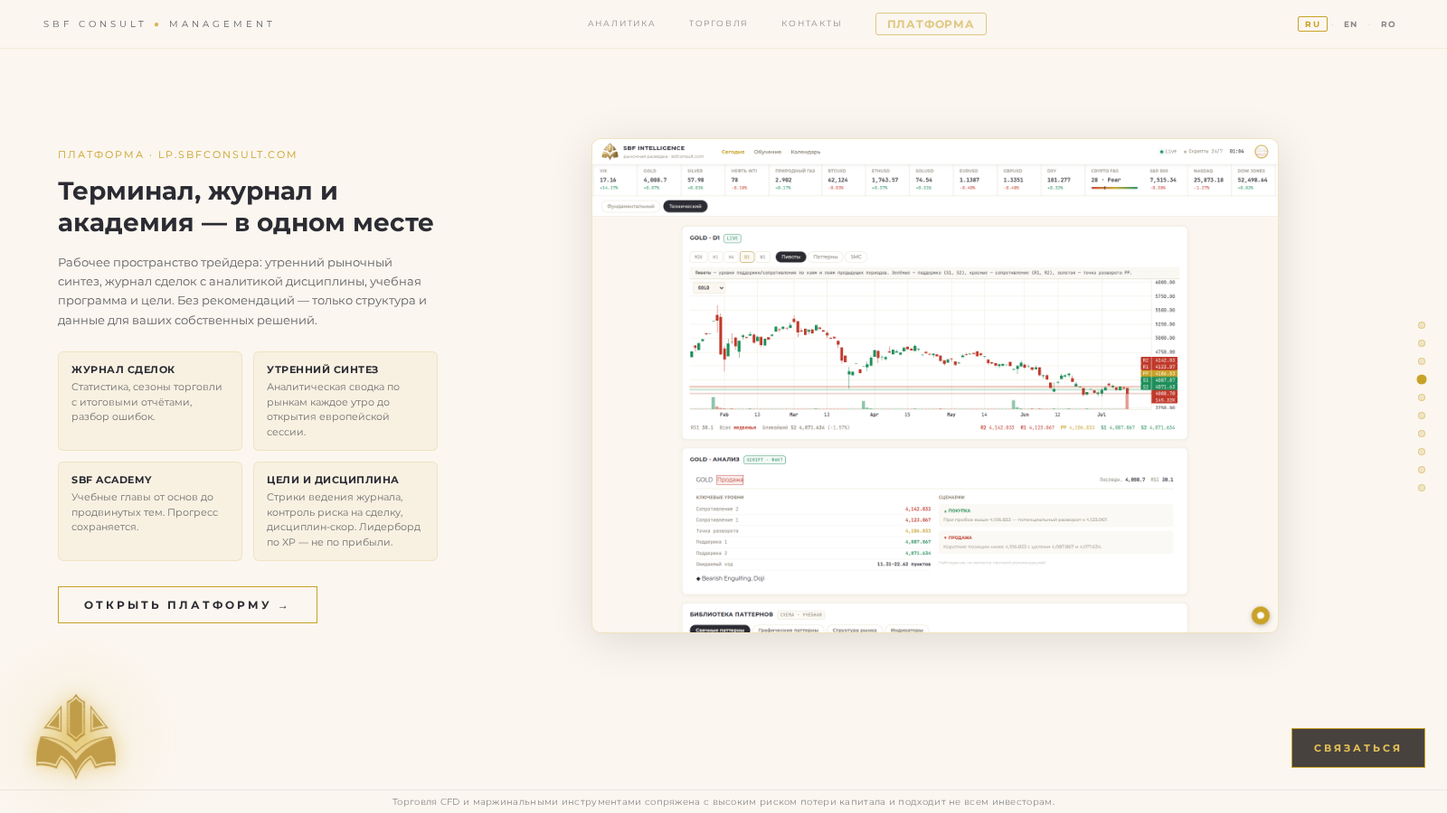
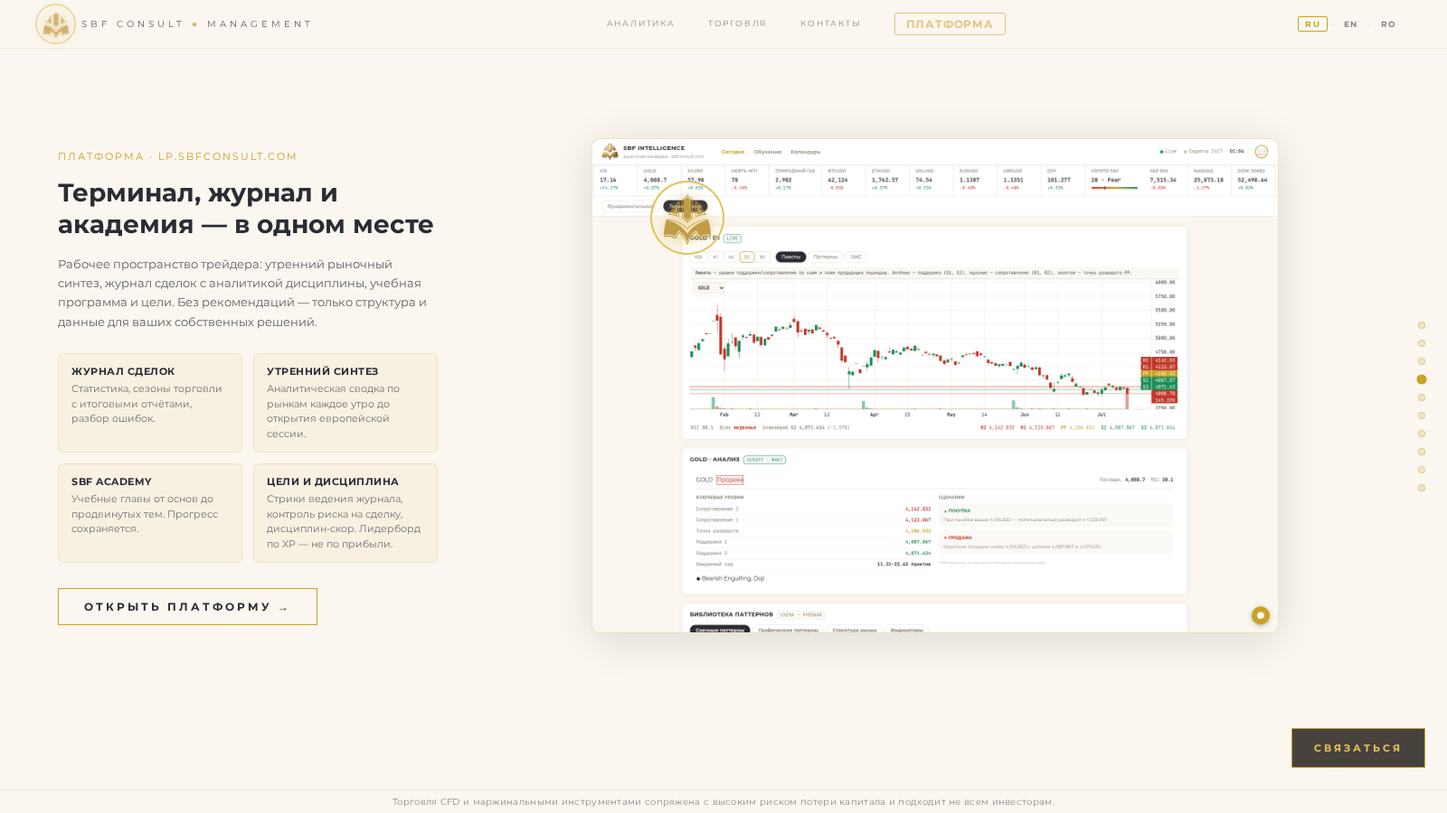
docs: план проработки экранов (ТЗ для исполнителя) + свежие снимки desktop

diff --git a/docs/plan-2026-09-screens.md b/docs/plan-2026-09-screens.md
@@ -1,0 +1,245 @@
+# sbfconsult.com — проработка экранов: план для исполнителя
+
+Дата: 2026-09-07. Ветка `scroll-mode` (от `main` f3dae56, последний коммит 67eca9f).
+Заказчик: «многое выглядит как плейсхолдеры на скорую руку — проработать все экраны отдельно, начиная с первого».
+
+Документ — техзадание. Исполнитель идёт по экранам сверху вниз, один экран = один коммит, после каждого — проверка (§0.4). Вопросы к заказчику собраны в §12; экраны, которые от них зависят, помечены.
+
+---
+
+## 0. Рамки
+
+### 0.1 Что уже решено и не пересматривается
+- Обычная прокрутка (не поэкранная). `js/scroll-director.js` шлёт `snap-enter/leave` на секции и `sbf:section` на document.
+- Знак SBF — процессор с одной ролью на экран (принимает / обрабатывает / выдаёт). Всё поведение знака — **только** в `js/logo.js` (`SBF.logo.setState(mark,{role,part,pulse})`). Секции знак не трогают, а шлют события. Знаки лежат в потоке (`.sect-mark`), общего fixed-логотипа нет и не будет. В шапке — `#nav-mark`, индикатор.
+- Подпись знака стоит под кольцом: `top: calc(100% + 0.34*var(--mark-size) + 8px)`.
+- Три языка (`js/i18n.js`, `_LOCALES` ru/en/ro). Любой новый текст — сразу в три локали; ключи только через `data-i18n`.
+- Вендор-библиотеки только из `vendor/` (d3, topojson, three, gsap). Новых CDN не добавлять.
+- Compliance: никаких обещаний доходности, никаких цитат «Reuters/Bloomberg», везде «не является инвестиционной рекомендацией», партнёры — с указанием регулятора. HTML-фолбэк без JS — нейтральный.
+
+### 0.2 Источники настоящего контента (вместо выдуманного)
+Всё лежит на диске в `/mnt/sbfdata/sbf-platform/market_intel/web/data/` и отдаётся сайтом lp.sbfconsult.com как `./data/*.json` (проверить доступность `https://lp.sbfconsult.com/data/brief_today.json` и CORS; если CORS нет — копировать нужные срезы кроном в `sbf-nexus/data/*.json`, как уже делается для `hero-feed.json` через `hero-preview/build_feed.py`).
+
+| Файл | Что внутри | Для какого экрана |
+|---|---|---|
+| `brief_today.json` | `headline` (строка, RU), `calendar[]` (`country`, `title`, `impact`, `forecast/previous`, `symbols[]`, `ts_utc`, `past_reaction{symbol,n,median_atr_30m}`), `movers{up[],down[]}` (`symbol`, `chg_pct`, `close`, `event`), `patterns[]` (`symbol`, `tf`, `pattern_key`, `display_name_ru`, `direction`, `agree_share_5`), `outliers`, `generated_at`, `untranslated` | герой, «Что выходит из шума», подход |
+| `broker_quotes.json`, `broker_sparklines.json` | котировки и спарклайны по инструментам, `updated` | бегущая строка героя, карточка «Анализ актива» |
+| `brief_image_<дата>.png` | готовая картинка утреннего брифа | платформа (демо брифа), «Утренний бриф» |
+| `guides/{avatrade,xm,naga,instaforex,fxpro}.{,en,ro}.json` | описание партнёра: `lead`, `processes`, `account_kind`, `affiliate` — в трёх языках | услуги, partner-modal |
+| `earnings_calendar.json`, `buzz.json` | отчётности, обсуждаемые тикеры | герой (подписи «N упоминаний») |
+| `sbf-nexus/assets/data/*.csv` | 9 исторических кейсов OHLC | память рынков, линза подхода |
+| `sbf-nexus/assets/platform/terminal.png`, `assets/office/*.jpg` | скриншот терминала, фото офиса | платформа, контакты |
+
+Правило: если на экране число или факт — он должен приходить из этих файлов или быть подтверждён заказчиком (§12). Без источника — не писать.
+
+### 0.3 Ключевые файлы
+`index.html` (917 строк, все секции) · `css/styles.css` (3556) · `css/scroll-mode.css` (474, всё новое кладём сюда) · `css/mobile-fixes.css` · `css/hero-map.css` · `js/hero-map.js` (герой) · `js/acts/act-hub.js` (grow) · `js/acts/act-approach.js` (GoldTape + линза) · `js/acts/act-pro.js` · `js/acts/act3-market.js` + `act-market-memory.js` · `js/acts/act-services.js` · `js/acts/act5-contact.js` · `js/partner-modal.js` · `js/lead-modal.js` · `js/i18n.js` · `hero-preview/build_feed.py`.
+
+### 0.4 Проверка после каждого экрана
+```
+python3 tools/shots.py --device laptop --device laptop-low --device iphone --section <id>
+python3 tools/lang-check.py --device laptop --device iphone      # RU/EN/RO, перекрытия знака
+node --check <изменённые js>
+```
+Перед закрытием всего плана: `python3 tools/shots.py` (6 пресетов) + `lang-check.py` без `--device`. Смотреть снимки глазами, не только отчёт: `tools/shots/<device>/NN-<id>.png`. Бэкграунд-запуск: `(setsid nohup timeout 600 python3 tools/shots.py > tools/shots.log 2>&1 &)`.
+Прод не меняется до `git merge` в `main` и `sudo systemctl restart sbfconsult-web.service` (делает заказчик).
+
+### 0.5 Общие признаки «плейсхолдера», которые убираем везде
+1. Текст, который подходит любой компании («индивидуальные решения для вашего будущего»). Заменяется на конкретику: что именно, когда, сколько, откуда.
+2. Карточка = заголовок + одна фраза, без визуального доказательства. Каждой карточке — «улика»: число из данных, мини-график, фрагмент интерфейса, шаг процесса.
+3. Пустота: экран на 70 % пуст (услуги). Либо наполняем содержанием, либо уменьшаем высоту секции.
+4. Декоративный элемент без функции (тире над цифрами PRO, плавающие подписи на карте без времени/источника).
+5. Отсутствие «низа»: у сайта нет футера с реквизитами, политиками и соцсетями.
+
+---
+
+## 1. Герой — `#act-map` (карта)
+
+**Сейчас.** Карта с 3 плавающими подписями («Процентная ставка · США», «MSTR · 6 упоминаний», «Закладки новых домов · Япония») без времени, источника и смысла числа; нити почти невидимы; ядро-знак в Молдове 40px и не читается как центр; заголовок хорош; карточка «Опрос трейдера — 30 дней PRO» нормальна; бегущая строка — только календарь; строка доверия внизу — не кликабельна; лента обновляется вручную (крон не стоит).
+
+**Цель.** Первый экран должен сам доказывать тезис «мир генерирует шум — мы распознаём закономерности»: видно, что шум настоящий (события с временем и источником), и видно, что из него уже что-то извлечено (сегодняшний заголовок брифа, ожидаемая реакция).
+
+**Сделать.**
+1. **Подписи на карте → мини-карточки события.** Разметка `.hm-label` → `.hm-event`: строка 1 — событие (title в текущем языке), строка 2 — страна · время («сегодня 15:30» / «через 2 ч» — из `calendar[].ts_utc`, локальное время посетителя), строка 3 — «обычно ±0.08 % за 30 мин по GBPUSD» из `past_reaction` (`median_atr_30m`, `symbol`, только если `n ≥ 5`). Impact — цветной маркер (low/medium/high). Не больше 4 карточек одновременно, новые вытесняют старые с фейдом. Источник — `build_feed.py` (расширить схему `hero-feed.json`: добавить `ts_utc`, `impact`, `reaction`, `symbols`; поле `generated_at`).
+2. **Нити.** Контраст ×2 (сейчас `rgba(154,123,30,.8)` с быстрым затуханием — сделать затухание к хвосту не ниже 0.35), толщина у ядра 3→4 px. Вспышка ядра при приходе нити уже шлёт `sbf:thread` — шапка реагирует; ядро тоже должно (кольцо-импульс на 400 мс).
+3. **Ядро.** Знак в Молдове 40→56 px с кольцом-дорожкой; подпись «SBF · Chișinău» под ним 9px mono; кольцо заполняется на 1/N с каждой пришедшей нитью и обнуляется при полном (ритм «набрали пакет — обработали»). Реализовать через `SBF.logo.setState` на `.sect-mark` героя (сейчас ядро рисуется на canvas в `hero-map.js` — заменить на DOM-знак, позиционируемый по `publishCore()`; canvas оставить только для нитей).
+4. **Строка «сегодня».** Под подзаголовком: `Сегодня · 7 сентября — <brief_today.headline>` мелким шрифтом, со ссылкой «читать бриф →» на lp (UTM `utm_campaign=hero_brief`). Если `untranslated` для текущего языка — показывать английский headline, не смешивать языки (это уже ловили в ленте).
+5. **Бегущая строка.** Две группы попеременно: календарь (как сейчас) и котировки из `broker_quotes.json` (`EURUSD 1.1642 ▲0.12 %`, 8–10 инструментов, цвет по знаку). Внизу строки — «обновлено N мин назад» из `updated`; старше 2 ч — котировки не показывать (нет данных лучше, чем старые данные).
+6. **Строка доверия.** «Bloomberg LEI» → ссылка на LEI (уже есть на контактах); «Партнёры с лицензиями ЕС» → якорь на `#act-service-1`; «Эксперты с опытом 10–25 лет» → оставить только если заказчик подтвердит (§12.5), иначе снять.
+7. **Крон.** `*/15 * * * * python3 /mnt/sbfdata/sbf-nexus/hero-preview/build_feed.py` — записать в карту юнитов (`units.txt` — источник правды по [[sbf-units-txt-is-the-source-of-truth]]), не ставить руками мимо карты.
+8. **Мобайл.** Карта — фон с приглушением 0.35, карточки событий не показывать (только строка «сегодня» и одна карточка ближайшего события над CTA). LCP: `d3`+`topojson` грузить `defer` и только `≥ 768px`.
+
+**Файлы.** `index.html` (секция `#act-map`), `js/hero-map.js`, `css/hero-map.css`, `hero-preview/build_feed.py`, `js/i18n.js` (`hero.today`, `hero.read_brief`, `hero.reaction_fmt`, `ticker.updated`).
+**Готово, когда:** на карте 3–4 карточки с временем и ожидаемой реакцией, ядро с кольцом, строка «сегодня» с реальным заголовком, котировки в бегущей строке, `generated_at` не старше 15 мин после установки крона; shots/lang-check чисто.
+
+---
+
+## 2. «Что выходит из шума» — `#act-grow`
+
+**Сейчас.** 4 текстовые карточки без доказательств; нити от знака к карточкам едва видны; полоса «Терминал открыт весь. Аккаунт добавляет своё» — один абзац.
+
+**Цель.** Показать продукт, а не описать его: каждая карточка содержит живой фрагмент того, что платформа выдаёт сегодня.
+
+**Сделать.**
+1. **Утренний бриф** — заголовок дня (`brief_today.headline`), дата, 3 ближайших события календаря одной строкой каждое (время · страна · событие). Ссылка «открыть бриф →» на lp. Снизу мелко: «формируется в 06:00 CET автоматически».
+2. **Анализ актива** — спарклайн (SVG 160×40) самого сильного mover'а из `movers` по `broker_sparklines.json`, подпись `XAUUSD · +1.4 % за день · уровень 4 440`. Клик → lp `chart.html?s=<symbol>` (в URL символы без `#`, см. [[chart-hash-symbols-broke-urls]]).
+3. **Библиотека паттернов** — чип статистики из наших кейсов: «Gap & fill · закрыт в 75 % случаев за 1–2 нед.» (число уже есть в i18n `market.eurusd.note`; хранить в одном месте — вынести в `js/data/patterns.json` и читать оттуда и здесь, и на экране рынков). Плюс миниатюра паттерна 120×60 (нарисовать canvas из CSV, как `drawStatic` в `act3-market.js`).
+4. **Журнал сделок** — «строка журнала» как в интерфейсе: `дата · инструмент · направление · риск 0.5 % · результат +1.8 R` с пометкой «пример записи». Никаких реальных результатов клиентов.
+5. **Нити** — по ним идут «пакеты» (точки 3px) от знака к карточкам с интервалом ~1.2 с (роль «выдаёт» становится видимой). Реализация в `act-hub.js` поверх существующих `.thread-line` (SVG `<circle>` + `animateMotion` по тому же пути, либо rAF).
+6. **Полоса внизу → таблица доступа.** Три колонки: «Без аккаунта» / «С аккаунтом» / «PRO» и 5–6 строк (бриф, графики, журнал, библиотека, академия, сигналы) с ✓ / — . Содержимое строк — из lp (§12.2, подтвердить у заказчика, что именно закрыто под PRO). Это мост к экрану 5.
+7. **Мобайл.** Карточки в потоке (уже), спарклайн и чипы масштабируются; таблица доступа — 3 колонки узкие, шрифт 11px, горизонтальный скролл не допускать.
+
+**Файлы.** `index.html` (`#act-grow`), `js/acts/act-hub.js`, `css/act-hub.css`, `js/data/patterns.json` (новый), `js/i18n.js` (`grow.*`).
+**Готово, когда:** на каждой карточке живой элемент из данных, пакеты бегут по нитям, таблица доступа согласована с lp.
+
+---
+
+## 3. Подход — `#act-approach`
+
+**Сейчас.** Самый «шаблонный» текст на сайте: «Индивидуальные финансовые решения для вашего будущего» + два абзаца, подходящих любому банку. В абзаце — «криптовалют» (проверить с compliance). Линза стоит по центру ленты, что внутри неё — не объяснено, кроме подписи.
+
+**Цель.** Одна мысль в три шага: собираем → проверяем → выдаём, и каждый шаг с числом.
+
+**Сделать.**
+1. **Копирайт.** Eyebrow «Подход». H2 «Шум снаружи — закономерность внутри». Три шага (нумерованный список `01/02/03` вертикально слева):
+   - **Собираем** — «календарь, новости, котировки: N источников, обновление каждые 15 мин» (N — из `build_feed.py`/`market_intel` конфигурации, посчитать реальное число).
+   - **Проверяем** — «по каждому событию — как рынок реагировал в прошлые 7 раз» (`past_reaction.n`), «паттерны — с частотой срабатывания, а не с картинкой из учебника».
+   - **Выдаём** — «бриф до открытия Европы, разметка на графике, сигналы на платформе. Решение — за вами» (формулировка compliance).
+   Старые абзацы удалить в трёх локалях. Ключи `approach.step1..3.title/text`.
+2. **Линза с настоящим паттерном.** Лента GoldTape сейчас крутит CSV по кругу; линза фиксирована в центре. Сделать: лента едет, а при `mark:visible` останавливается так, чтобы в линзе оказалась «точка паттерна» из выбранного CSV (например `XAUUSD_triangle_breakout_may2026.csv`, свеча пробоя); в линзе — уровни, SMA20, подсветка свечи (уже есть в `_renderLens`). Под линзой — 3 чипа-легенды: «уровень», «SMA 20», «паттерн» с цветами, как в отрисовке. Hover/тач по ленте — линза едет за курсором (лента стоит), при уходе — возвращается к паттерну.
+3. **Ссылка** «Как это выглядит в терминале →» на lp `chart.html?s=XAUUSD` (UTM `approach`).
+4. **Мобайл.** Лента — фон 0.25 (как сейчас), линзы нет (роль — в шапке), шаги в потоке; убрать пустоту сверху (сейчас ~80px до eyebrow).
+
+**Файлы.** `index.html` (`#act-approach`), `js/acts/act-approach.js` (режим «стоп на паттерне», hover), `css/scroll-mode.css`, `js/i18n.js` (`approach.*`).
+**Готово, когда:** текст без общих фраз, три шага с числами, линза стоит на реальной свече пробоя с легендой.
+
+---
+
+## 4. Платформа — `#act-platform-1`
+
+**Сейчас.** Один статичный PNG терминала, «ключ»-знак проявляет его по кольцу (работает), 4 текстовые мини-карточки, один CTA.
+
+**Цель.** Дать потрогать продукт с сайта: три экрана платформы и настоящий бриф.
+
+**Сделать.**
+1. **Три вкладки над скриншотом:** Терминал / Журнал / Академия. Скриншоты снять Playwright'ом с lp (`chart.html`, `journal.html`, `/edu/`) на 1440×900, сохранить в `assets/platform/{terminal,journal,academy}.png` (webp + png fallback). Если страница требует логина — снимать публичный вид (§12.3). Рамка браузера (тонкая полоса с тремя точками и адресом `lp.sbfconsult.com/chart`) — CSS, без картинок. Механика «ключа» остаётся: первое проявление — на активной вкладке, дальнейшие переключения — без размытия.
+2. **Мини-карточки** → ссылки на соответствующий раздел lp с UTM, в каждой одно число: «Журнал — 7 полей на сделку», «Бриф — 06:00 CET, 4 блока», «Академия — N уроков» (посчитать по `sbf_site` / `market_intel/web`), «Цели и дисциплина — лимит риска на сделку».
+3. **Второй CTA:** «Посмотреть сегодняшний бриф» — лайтбокс с `brief_image_<сегодня>.png` (последний доступный файл; путь через lp `data/`). Это единственное место на сайте, где продукт показан целиком.
+4. **Мобайл.** Скриншот сверху, вкладки — сегменты 3 в ряд, лайтбокс — полноэкранный с закрытием по свайпу вниз.
+
+**Файлы.** `index.html` (`#act-platform-1`), `js/logo.js` (gate — без изменений), новый `js/acts/act-platform.js` (вкладки, лайтбокс), `css/scroll-mode.css`, `assets/platform/*`, `js/i18n.js` (`platform.p1.tab_*`, `platform.p1.brief_cta`).
+**Готово, когда:** три вкладки с настоящими скриншотами, лайтбокс открывает сегодняшний бриф, карточки ведут в разделы.
+
+---
+
+## 5. PRO-оффер — `#act-platform-2`
+
+**Сейчас.** Три тёмных прямоугольника с «—» над цифрами и одной фразой — типичный плейсхолдер; что даёт PRO — не сказано; что после 30 дней — не сказано. Кольцо по шагам работает.
+
+**Цель.** Понятный оффер: что получаешь, что нужно сделать, что будет потом.
+
+**Сделать.** *(зависит от §12.2 — состав PRO и цена после триала)*
+1. **Степпер вместо коробок.** Горизонтальная линия с тремя узлами: иконка (SVG inline, 24px: «регистрация», «опрос», «путь») → заголовок → длительность («2 шага», «~3 мин», «сразу»). Узлы подсвечиваются по мере заполнения кольца (уже есть `.step-lit`). Тире убрать.
+2. **Блок «Что входит в PRO»** — 4–6 строк с ✓ (из §12.2), рядом «30 дней бесплатно · карта не нужна · автосписаний нет».
+3. **Блок «Через 30 дней»** — честно: «PRO отключается сам, всё, что открыто без аккаунта, остаётся; продление — <цена> / мес» (цена — §12.2; пока нет — «по подписке, цена на платформе»).
+4. **CTA** «Начать →» — на lp `survey.html` с UTM `pro_offer`; рядом мелко «18+ · доступ активируется однократно».
+5. **Мобайл.** Степпер вертикальный, блоки в потоке; знак — между степпером и «что входит» (уже в потоке).
+
+**Файлы.** `index.html` (`#act-platform-2`), `js/acts/act-pro.js` (узлы вместо карточек — селекторы `.p2-card[data-step]` сохранить), `css/scroll-mode.css`, `js/i18n.js` (`platform.p2.*`).
+**Готово, когда:** ни одной пустой коробки, состав PRO и условия после триала на экране.
+
+---
+
+## 6. Память рынков — `#act-market`
+
+**Сейчас.** Работает лучше остальных: кейсы, поток в силуэте, кольцо-таймер, маркер. Плейсхолдерные черты: график без осей и дат, пунктирные уровни без легенды, титульная плашка — отдельная «стеклянная» коробка, дисклеймер только у первого кейса, у графиков нет источника данных.
+
+**Сделать.**
+1. **Оси.** Справа — 4–5 ценовых тиков, снизу — даты (начало/середина/конец окна) шрифтом mono 10px, цвет `rgba(251,246,239,.4)`. Реализовать в `drawStatic` (`act3-market.js`) и в мобильном `act-market-mobile.js` — общая функция `drawAxes(ctx, data, cfg)`.
+2. **Легенда паттерна** под графиком: «— — уровень гэпа», «▮ окно паттерна», «● точка паттерна» (маркер уже есть). Подсветка окна паттерна — полупрозрачная полоса по индексам из `cfg.overlay`.
+3. **Источник** под кейсом: «данные: MT5 · EURUSD 30M · 22–29 мая 2026» из `cfg` (добавить `source` в `CHARTS`).
+4. **Титул** — не плавающая коробка, а заголовок секции в верхней полосе слева (eyebrow + h3 без фона), CTA «Смотреть живую аналитику →» рядом со знаком справа.
+5. **Дисклеймер** `market.hist_disclaimer` на всех пяти кейсах.
+6. **Чип статистики** у каждого кейса (там, где есть число): «75 % · 1–2 нед.» — из `js/data/patterns.json` (общий с экраном 2).
+
+**Файлы.** `js/acts/act3-market.js`, `js/acts/act-market-mobile.js`, `index.html` (`#act-market`), `css/scroll-mode.css`, `js/i18n.js` (`market.legend_*`, `market.source`).
+**Готово, когда:** на графике оси и даты, легенда и источник под каждым кейсом, дисклеймер везде.
+
+---
+
+## 7–9. Услуги — `#act-service-1..3`
+
+**Сейчас.** Самые пустые экраны: номер, заголовок, «кому подходит» одной строкой, знак, 1–2 карточки партнёров, один абзац. 70 % площади пусто. Не сказано: что входит, в каком формате, сколько длится, с чего начать, сколько стоит.
+
+**Цель.** Каждая услуга — законченная страница-оффер на одном экране. *(зависит от §12.1 — формат, длительность, цены)*
+
+**Сделать (одинаковая структура для трёх, один коммит).**
+1. **Сетка** `.service-corona`: строка 1 — номер + заголовок (как сейчас); строка 2 — три колонки: слева «Кому подходит» + «Формат» (онлайн / офис Кишинёв · длительность · языки RU/RO/EN), центр — знак с кольцом «вы/мы» (как сейчас), справа — партнёры; строка 3 — две колонки: «Что входит» (4 пункта с ✓) и «Как начать» (3 шага: заявка → созвон 20 мин → старт); строка 4 — абзац-описание + дисклеймер (03) + CTA.
+2. **CTA по услуге:** 01 → lp `/edu/` (есть); 02 → «Обсудить сопровождение» (lead-modal с предвыбором `service=support` — добавить скрытое поле в `lead-modal.js`, оно уходит в CRM); 03 → «Обсудить управление» (lead-modal `service=management`) + знак-кнопка к FxPro (есть).
+3. **Партнёры.** Карточки и модалка — из `guides/*.{ru,en,ro}.json` (`lead`, `processes`, регулятор): заменить захардкоженный текст в `partner-modal.js` на загрузку JSON по текущему языку (файлы скопировать в `sbf-nexus/data/guides/` тем же кроном). Для каждого партнёра — строка регулятора и «счёт открывается у партнёра, SBF средства не принимает».
+4. **Цена.** Если заказчик даёт — «от X €/мес» / «% от прибыли по договору с брокером»; если нет — «условия — на консультации» (не оставлять пустым).
+5. **Мобайл.** `.service-corona-mobile` — те же блоки в потоке: заголовок → знак → кому/формат → что входит → как начать → партнёры → CTA. Убрать дубли текста между десктоп- и мобильной разметкой: перейти на одну разметку с CSS-раскладкой (сейчас каждая услуга существует дважды — источник расхождений и лишних i18n-ключей).
+
+**Файлы.** `index.html` (три секции — переписать по одной структуре), `css/styles.css` (`.service-corona*` — большие блоки; новое класть в `scroll-mode.css`), `js/acts/act-services.js`, `js/partner-modal.js`, `js/lead-modal.js`, `js/i18n.js` (`svc.s{1,2,3}.{format,includes[],steps[],price,cta}`).
+**Готово, когда:** на каждой услуге видно формат, состав, шаги и CTA; партнёры из guides в трёх языках; одна разметка на десктоп и мобайл.
+
+---
+
+## 10. Контакты + футер — `#act-contact`
+
+**Сейчас.** Глобус, 4 филиала, карточка контактов, знак-узел с нитями. Нет: часов работы и часовых поясов, реквизитов компании, политик, соцсетей — сайт обрывается на строке риска.
+
+**Сделать.**
+1. **Филиалы:** добавить «часы: 09–18 EET · сейчас 14:32» (локальное время офиса JS, `Intl.DateTimeFormat` с timeZone), предпочтительный канал (WhatsApp/Telegram — уже есть). При наведении на карточку — глобус доворачивается к офису (проверить, есть ли в `globe3d.js` API поворота; если нет — добавить `SBF.globe.lookAt(lat, lon)` с плавным твином), точка офиса подсвечивается.
+2. **Карточка контактов:** «Ответим в течение рабочего дня» под CTA; e-mail/телефон — как есть.
+3. **Футер** (новая секция `<footer class="site-footer">` после `#act-contact`, не `.snap-stop`): колонка 1 — реквизиты (SBF Company SRL, IDNO — §12.4, адрес Кишинёв, LEI-ссылка); колонка 2 — ссылки: Политика конфиденциальности (есть на lp `privacy.html` — сослаться или перенести), Условия, Риск-предупреждение (полный текст на отдельной странице `risk.html`), Партнёры; колонка 3 — соцсети (Telegram @SBFEconomics — есть; остальное §12.6), переключатель языка, © 2026. Текст риска из шапки-подвала остаётся, но в футере — полная версия.
+4. **Мобайл.** Часы/время в карточках — одной строкой; футер в одну колонку.
+
+**Файлы.** `index.html`, `js/acts/act5-contact.js`, `js/globe3d.js`, `css/scroll-mode.css`, новая `risk.html` (и `privacy.html`, если переносим), `js/i18n.js` (`contact.hours`, `footer.*`).
+**Готово, когда:** у каждого офиса часы и локальное время, есть футер с реквизитами и политиками на трёх языках.
+
+---
+
+## 11. Сквозные вещи (после экранов, один коммит на пункт)
+
+1. **Голос и compliance** — прогнать все тексты через `marketing:brand-review` (скилл в Cowork) по двум критериям: нет общих фраз, нет обещаний доходности. Исправить в трёх локалях.
+2. **Паритет i18n** — `tools/i18n-check.py`: ключи, которых нет в одной из локалей, и ключи, которых нет в разметке. Запускать в §0.4.
+3. **Производительность** — `three.min.js` (глобус) грузить лениво при приближении к `#act-contact` (IntersectionObserver rootMargin 800px); d3/topojson — только ≥768px; изображения → webp с fallback; проверить LCP на iphone в Playwright (`performance.getEntriesByType('largest-contentful-paint')`) — цель < 2.5 с на 4G-троттлинге.
+4. **SEO/OG** — `<title>`/`<meta description>` по языку (менять в `applyTranslations`), `og:image` 1200×630 (сделать из героя), JSON-LD `Organization` с `leiCode`, `sitemap.xml`, `hreflang` (если языки — не URL, то один URL с `?lang=`; решить с заказчиком — §12.7).
+5. **Аналитика** — сейчас ни `gtag`, ни `plausible` в `index.html` нет; UTM на ссылках есть. Добавить события на CTA (`data-track="hero_platform"` и т.п.) под тот счётчик, который назовёт заказчик (§12.8). Без счётчика клики с сайта не видны нигде, кроме CRM-лидов.
+6. **Доступность** — фокус-стили на `.sect-mark[data-open-partner]`, `aria-live` на бегущей строке выключить (шумит для скринридеров), `prefers-reduced-motion` — потоки/пакеты/нити не анимировать.
+
+---
+
+## 12. Вопросы заказчику (блокируют помеченные экраны)
+
+1. **Услуги (7–9):** формат (онлайн/офис), длительность обучения, языки, цены или «на консультации»; что входит в сопровождение и управление — по 4 пункта на услугу.
+2. **PRO (5, 2):** точный состав PRO на lp; цена после 30 дней; что закрыто без аккаунта / с аккаунтом / в PRO (таблица доступа).
+3. **Платформа (4):** можно ли снимать скриншоты `journal.html` и академии с демо-аккаунтом, или только публичные виды.
+4. **Футер (10):** IDNO, юридический адрес, кто оператор персональных данных.
+5. **Герой (1):** подтвердить «эксперты с опытом 10–25 лет» — или снять.
+6. **Футер (10):** ссылки на соцсети (Telegram есть; YouTube/TikTok/Instagram?).
+7. **SEO (11.4):** языки как параметр или как пути `/en/`, `/ro/`.
+8. **Аналитика (11.5):** какой счётчик (GA4 / Plausible / Метрика) и есть ли уже ID.
+
+Экраны 1, 3, 6 и большая часть 2, 4, 10 не зависят от ответов — с них и начинать.
+
+---
+
+## 13. Порядок и объём
+
+| # | Экран | Зависит от §12 | Оценка |
+|---|---|---|---|
+| 1 | Герой | п.5 (частично) | крупный: схема ленты, DOM-ядро, котировки, крон |
+| 2 | Что выходит из шума | п.2 (таблица доступа) | средний |
+| 3 | Подход | — | средний: текст + стоп-на-паттерне |
+| 4 | Платформа | п.3 | средний: скриншоты, вкладки, лайтбокс |
+| 5 | PRO | п.2 | малый после ответов |
+| 6 | Память рынков | — | малый: оси, легенда, титул |
+| 7–9 | Услуги | п.1 | крупный: единая разметка, guides, CTA |
+| 10 | Контакты + футер | п.4, 6 | средний |
+| 11 | Сквозные | п.7, 8 | средний |
+
+Каждый пункт: коммит с сообщением `N экран — <что>` → `tools/shots.py --section` → `lang-check.py` → снимки глазами. После всего — строка в `sbfcrm/obsidian/Onsidian/SBF/Core — Координация между чатами.md` и отчёт в `Reports/`.
+
+Не делать: не возвращать общий fixed-логотип; не менять механику знака вне `logo.js`; не добавлять CDN; не писать числа без источника; не выдумывать цитаты СМИ.
